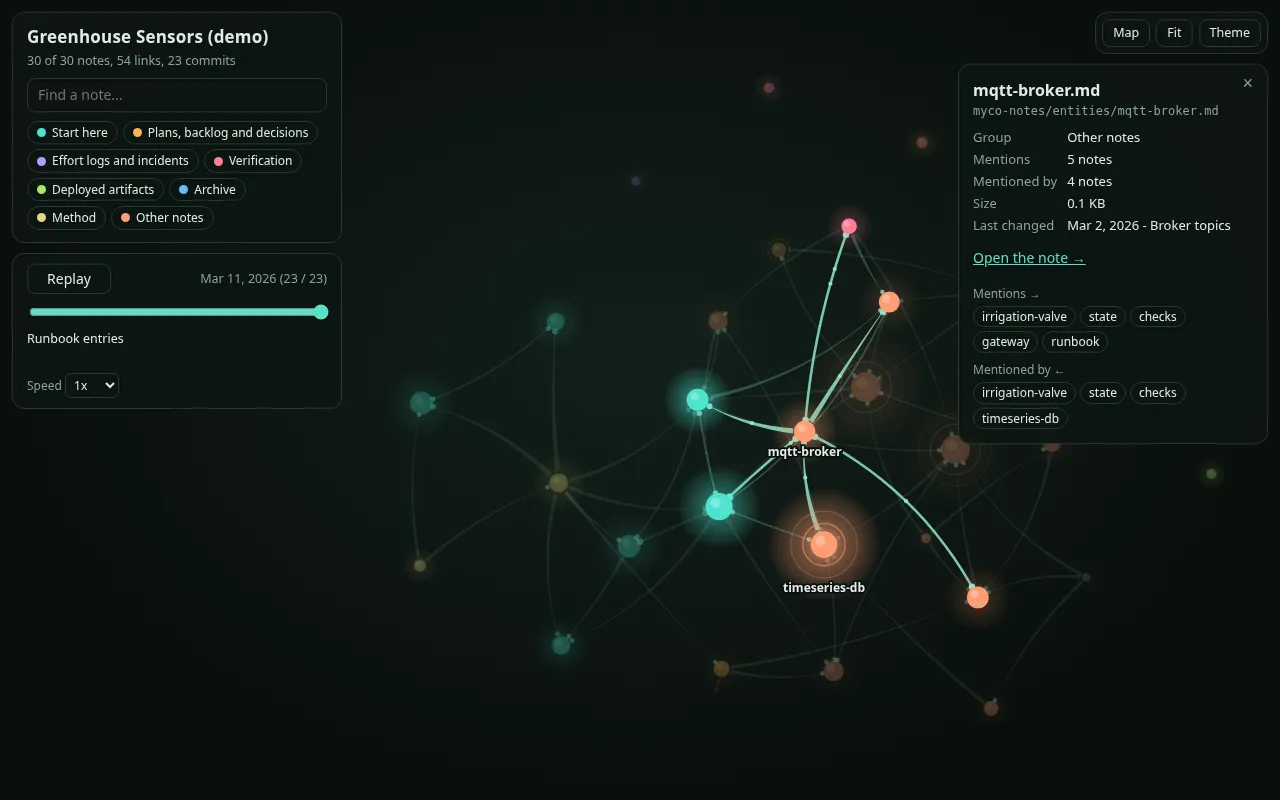
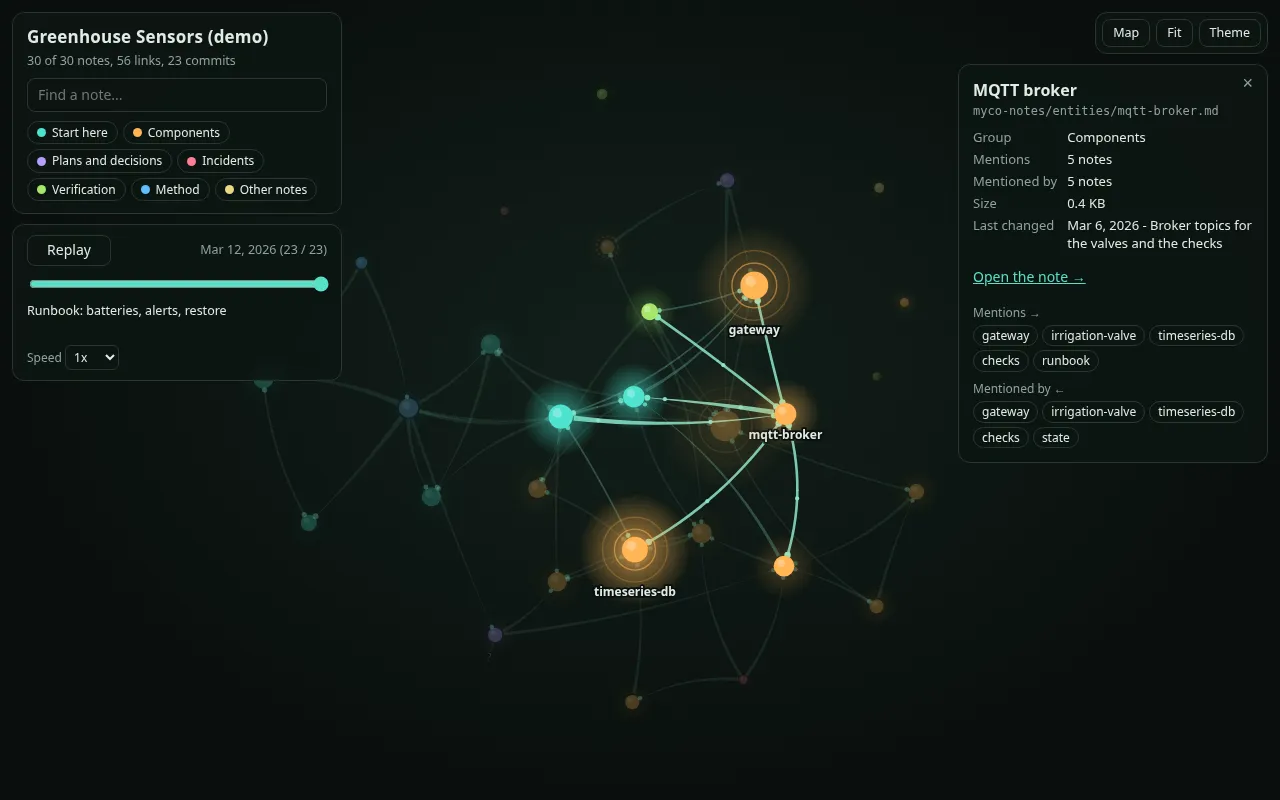
README: a replay clip, a live demo on GitHub Pages and a shorter pitch
- examples/demo/build_demo.py builds a made-up "Greenhouse Sensors" tree with
  dated commits (Jan to Mar 2026), a wilting note and a missing reference;
  .github/workflows/demo.yml publishes its map and mycelium view on Pages.
- README opening: the problem in one line, the replay clip, the demo link,
  the install command, five feature bullets and badges. The screenshots are
  retaken from the demo tree.
- tests/smoke.sh builds the demo tree and lints it.

diff --git a/examples/demo/build_demo.py b/examples/demo/build_demo.py
@@ -1,0 +1,212 @@
+#!/usr/bin/env python3
+"""build_demo: create the made-up "Greenhouse Sensors" notes tree and its map, for the README screenshots and the live demo.
+
+    python3 examples/demo/build_demo.py OUT_DIR
+
+OUT_DIR must not exist. The script bootstraps a tree with this kit, writes a few dozen invented notes in the method's formats,
+commits them with fixed dates from January to March 2026 (so the timeline replay always tells the same story) and builds the map
+(OUT_DIR/myco-notes/map/index.html and graph.html). Everything in it is fictional; nothing is read from the machine it runs on.
+Standard library and git only, like the tools.
+"""
+import json
+import os
+import subprocess
+import sys
+
+HERE = os.path.dirname(os.path.abspath(__file__))
+KIT = os.path.normpath(os.path.join(HERE, "..", "..", "skills", "myco-notes"))
+ENV = dict(os.environ, GIT_AUTHOR_NAME="Demo Owner", GIT_AUTHOR_EMAIL="demo@example.invalid",
+           GIT_COMMITTER_NAME="Demo Owner", GIT_COMMITTER_EMAIL="demo@example.invalid")
+
+# (date, commit message, {path under myco-notes/: text}); text starting with "+" is appended to the note instead of replacing it.
+STEPS = [
+    ("2026-01-06", "Sensor node: hardware, power budget and where the nodes hang", {
+        "entities/sensor-node.md": """# Sensor node
+
+Battery-powered node that measures air temperature, humidity and light every 5 minutes and sends them over LoRa.
+
+- Hardware: ESP32 board, SHT41 sensor, 2 x AA lithium, IP65 box. Twelve nodes, inventory in `state.md`.
+- Power budget: 38 uA asleep, 9 s awake per reading; measured life 14 months (bench test 2026-01-04).
+- Sends to: `gateway.md`. Firmware: see the entity note for the firmware once it exists.
+- How to replace batteries: `runbook.md`, "How do I swap a node's batteries?".
+"""}),
+    ("2026-01-09", "Gateway: the LoRa receiver in the potting shed", {
+        "entities/gateway.md": """# LoRa gateway
+
+Receives the readings from every `sensor-node.md` and publishes them to the broker.
+
+- Where: potting shed, 2 m up, outdoor antenna. Power over Ethernet from the shed switch.
+- Publishes to: `mqtt-broker.md`, topic `greenhouse/<house>/<node>/<metric>`.
+- Health: `checks.md` pings it every minute; the inventory row is in `state.md`.
+"""}),
+    ("2026-01-12", "Broker: MQTT on the small server", {
+        "entities/mqtt-broker.md": """# MQTT broker
+
+Mosquitto 2.0 on the small server; every reading passes through it.
+
+- Fed by: `gateway.md`. Read by: the time-series database (`timeseries-db.md`).
+- Access: one account per client; the passwords live in the password manager, entry "Greenhouse / MQTT", never here.
+- Restart and log locations: `runbook.md`.
+"""}),
+    ("2026-01-15", "Store the readings in a time-series database", {
+        "entities/timeseries-db.md": """# Time-series database
+
+Keeps every reading for two years (about 40 MB a month).
+
+- Subscribes to `mqtt-broker.md`; schema: one measurement per metric, tags `house` and `node`.
+- Version and size are in `state.md`; backups: see the backup job note when it exists.
+"""}),
+    ("2026-01-19", "Dashboard for the growers", {
+        "entities/dashboard.md": """# Dashboard
+
+One page per greenhouse: temperature, humidity, light, the valve state and the forecast.
+
+- Reads from `timeseries-db.md`. Panels that turn red come from `alerting.md`.
+"""}),
+    ("2026-01-22", "Frost and heat alerts", {
+        "entities/alerting.md": """# Alerting
+
+Sends a phone notification when a greenhouse leaves its range for 10 minutes.
+
+- Rules on top of `timeseries-db.md`: below 4 C (frost), above 35 C (heat), no reading from a node for 30 minutes.
+- Shown on `dashboard.md`. What to do when an alert fires: `runbook.md`.
+"""}),
+    ("2026-01-26", "Decision: LoRa instead of Wi-Fi for the nodes", {
+        "plans/decision-lora-vs-wifi.md": """# Decision: radio for the sensor nodes (2026-01-26)
+
+Context: the greenhouses are 120 m from the house; Wi-Fi reached two of three in tests.
+Options: (1) Wi-Fi with a mesh extender in each greenhouse; (2) LoRa with one `gateway.md`.
+Chosen: option 2, by the owner. Why: one receiver covers all houses and a `sensor-node.md` lasts a year on batteries.
+Not chosen: Wi-Fi (three extenders to power and patch; battery life about 6 weeks).
+Review trigger: more than 40 nodes, or a reading every minute.
+"""}),
+    ("2026-01-30", "Irrigation valves, switched over MQTT", {
+        "entities/irrigation-valve.md": """# Irrigation valve
+
+24 V solenoid valves, one per bed, driven by a relay board that listens on `mqtt-broker.md`.
+
+- A valve that stays open longer than 20 minutes raises an alert (`alerting.md`).
+- Manual override: the switch on the relay box; see `runbook.md`.
+"""}),
+    ("2026-02-02", "Weather forecast feed", {
+        "entities/weather-feed.md": """# Weather feed
+
+Hourly forecast pulled from a public weather service and written to `timeseries-db.md`, so the dashboard can show it next to the readings.
+"""}),
+    ("2026-02-05", "Backlog", {
+        "plans/backlog.md": """# Backlog
+
+- Soil moisture per bed, so the valves open on need instead of on a timer (`irrigation-valve.md`).
+- A second page on `dashboard.md` for the yearly comparison.
+- Solar charging for the far nodes: see `solar-panel.md` (not written yet).
+"""}),
+    ("2026-02-09", "Nightly backup of the database", {
+        "entities/backup-job.md": """# Backup job
+
+Dumps `timeseries-db.md` every night at 02:00 to the NAS and once a week to an offline disk.
+
+- Restore steps and the last restore drill: `runbook.md`. Status line in `state.md`.
+"""}),
+    ("2026-02-12", "Health checks", {
+        "verification/checks.md": """# Health checks
+
+A script runs every 5 minutes and reports pass / warn / fail:
+
+- `gateway.md` answers ping; `mqtt-broker.md` accepts a test message; `backup-job.md` ran in the last 26 hours;
+  every node in `sensor-node.md` reported in the last 30 minutes; `alerting.md` sent its daily test notification.
+"""}),
+    ("2026-02-16", "Greenhouse A", {
+        "entities/greenhouse-a.md": """# Greenhouse A (tomatoes)
+
+Four nodes (`sensor-node.md`), three beds, three valves (`irrigation-valve.md`). Shade cloth closes above 30 C.
+"""}),
+    ("2026-02-19", "Greenhouse B", {
+        "entities/greenhouse-b.md": """# Greenhouse B (seedlings)
+
+Five nodes (`sensor-node.md`), heated bench, two valves (`irrigation-valve.md`). Same layout as `greenhouse-a.md` otherwise.
+"""}),
+    ("2026-02-23", "Firmware 2.1 for the nodes", {
+        "entities/firmware.md": """---
+last_confirmed: 2026-02-23
+review_after: 2026-03-01
+---
+# Node firmware
+
+Version 2.1 on all nodes since 2026-02-23 (`sensor-node.md`). Why LoRa and not Wi-Fi: `decision-lora-vs-wifi.md`.
+
+- Changed in 2.1: reading interval configurable, battery voltage sent with every reading.
+- Calibration of the humidity offset is due again; see the review date above.
+"""}),
+    ("2026-02-27", "Incident: frost night in greenhouse B", {
+        "logs/2026-02-frost-night.md": """# 2026-02-26 INCIDENT: frost night in greenhouse B
+
+Timeline: 03:10 frost alert (`alerting.md`), 03:25 heater found off, 03:40 heater on, 04:30 back above 6 C.
+Effect: some seedling trays damaged. Cause (proven): the heater's timer reset after a power cut.
+Fix: the valve and heater schedule moved to the relay board (`irrigation-valve.md`), which keeps time.
+The forecast had shown -3 C (`weather-feed.md`); a forecast-based warning is now on the backlog.
+"""}),
+    ("2026-03-02", "Soil probes arrived (not wired up yet)", {
+        "entities/soil-probe.md": """# Soil probe
+
+Capacitive soil moisture probes, six bought for a test in one bed. Not connected to anything yet.
+"""}),
+    ("2026-03-04", "Node note: firmware and where they hang", {
+        "entities/sensor-node.md": "+\n## Since 2026-03-04\n- Firmware: `firmware.md`. Placement per house: `greenhouse-a.md`, `greenhouse-b.md`.\n"}),
+    ("2026-03-06", "Broker topics for the valves and the checks", {
+        "entities/mqtt-broker.md": "+\n## Topics (since 2026-03-06)\n- `greenhouse/valves/#` for `irrigation-valve.md`; `greenhouse/check` for `checks.md`.\n"}),
+    ("2026-03-08", "Database: retention, backups, dashboard", {
+        "entities/timeseries-db.md": "+\n## Retention and copies (since 2026-03-08)\n- Two years of raw data, then hourly means. Backed up by `backup-job.md`; read by `dashboard.md`.\n"}),
+    ("2026-03-10", "Master record: inventory and headline facts", {
+        "state.md": "+\n## Demo inventory (2026-03-10)\n| Name | Role | Note |\n|---|---|---|\n| Sensor nodes (12) | readings every 5 minutes | `sensor-node.md` |\n| LoRa gateway | radio to network | `gateway.md` |\n| MQTT broker | message bus | `mqtt-broker.md` |\n| Time-series database | storage, two years | `timeseries-db.md` |\n| Dashboard | for the growers | `dashboard.md` |\n"}),
+    ("2026-03-12", "Runbook: batteries, alerts, restore", {
+        "runbook.md": "+\n## How do I swap a node's batteries? (since 2026-03-12)\nOpen the box, swap both cells, wait for the next reading on the dashboard. See `sensor-node.md`.\n\n## What do I do when a frost alert fires? (since 2026-03-12)\nCheck the heater first, then the valves. See `alerting.md` and the frost night incident.\n\n## How do I restore last night's backup? (since 2026-03-12)\nSee `backup-job.md`. Last restore drill: 2026-03-11, 4 minutes. Gateway restarts: `gateway.md`.\n"}),
+]
+
+
+def run(args, cwd, date=None):
+    env = dict(ENV)
+    if date:
+        env["GIT_AUTHOR_DATE"] = env["GIT_COMMITTER_DATE"] = date + "T10:00:00+00:00"
+    return subprocess.run(args, cwd=cwd, env=env, check=True, stdout=subprocess.PIPE, stderr=subprocess.STDOUT, universal_newlines=True).stdout
+
+
+def main():
+    if len(sys.argv) != 2:
+        sys.exit(__doc__)
+    out = os.path.abspath(sys.argv[1])
+    if os.path.exists(out):
+        sys.exit("build_demo: %s exists; give a new folder" % out)
+    env_date = "2026-01-05"
+    os.environ.update({"GIT_AUTHOR_DATE": env_date + "T09:00:00+00:00", "GIT_COMMITTER_DATE": env_date + "T09:00:00+00:00"})
+    run([sys.executable, os.path.join(KIT, "tools", "bootstrap.py"), out, "--name", "Greenhouse Sensors", "--owner", "Demo Owner",
+         "--tz", "UTC", "--new-folders", "add"], HERE, env_date)
+    for k in ("GIT_AUTHOR_DATE", "GIT_COMMITTER_DATE"):
+        os.environ.pop(k, None)
+    notes = os.path.join(out, "myco-notes")
+    with open(os.path.join(out, ".myco-notes-map.json"), "w", encoding="utf-8") as fh:
+        json.dump({"title": "Greenhouse Sensors (demo)", "groups": [
+            {"id": "start", "name": "Start here", "blurb": "Entry point, working agreement, tracker, master record, runbook.",
+             "prefixes": ["AGENTS.md", "CLAUDE.md"] + ["myco-notes/" + f for f in ("working-agreement.md", "sync-tracker.md", "state.md", "runbook.md")]},
+            {"id": "components", "name": "Components", "blurb": "One note per part of the system.", "prefixes": ["myco-notes/entities/"]},
+            {"id": "plans", "name": "Plans and decisions", "blurb": "Backlog and decision records.", "prefixes": ["myco-notes/plans/"]},
+            {"id": "logs", "name": "Incidents", "blurb": "What went wrong and what changed.", "prefixes": ["myco-notes/logs/"]},
+            {"id": "verify", "name": "Verification", "blurb": "Health checks.", "prefixes": ["myco-notes/verification/"]},
+            {"id": "docs", "name": "Method", "blurb": "How the notes are kept.", "prefixes": ["myco-notes/docs/"]},
+            {"id": "other", "name": "Other notes", "blurb": "Everything else.", "prefixes": []}]}, fh, indent=1)
+    for date, msg, files in STEPS:
+        for rel, text in files.items():
+            p = os.path.join(notes, *rel.split("/"))
+            os.makedirs(os.path.dirname(p), exist_ok=True)
+            if text.startswith("+"):
+                with open(p, "a", encoding="utf-8", newline="\n") as fh:
+                    fh.write(text[1:])
+            else:
+                with open(p, "w", encoding="utf-8", newline="\n") as fh:
+                    fh.write(text)
+        run(["git", "add", "-A"], out)
+        run(["git", "commit", "-q", "-m", msg], out, date)
+    print(run([sys.executable, os.path.join(notes, "tools", "build-notes-map.py")], out).strip())
+
+
+if __name__ == "__main__":
+    main()

diff --git a/README.md b/README.md
@@ -2,6 +2,29 @@
 
 *Linked, versioned, secret-free project notes for you and your AI agents.*
 
+[![test](https://github.com/LuzianMe/myco-notes/actions/workflows/test.yml/badge.svg)](https://github.com/LuzianMe/myco-notes/actions/workflows/test.yml) [![live demo](https://img.shields.io/badge/live%20demo-mycelium%20view-3fbfa8)](https://luzianme.github.io/myco-notes/graph.html) [![license](https://img.shields.io/badge/license-Apache--2.0-blue)](LICENSE)
+
+**Your AI agent forgets everything between sessions. Your notes should not.** Myco Notes keeps a project's knowledge in plain Markdown and git, and keeps it **true**: every change is written down with its evidence, every note says which notes it depends on, nothing secret gets committed, and nothing is deleted, only superseded.
+
+![The notes of a demo project growing commit by commit in the mycelium view: notes appear as glowing nodes and threads grow between the notes that mention each other](.github/assets/mycelium-replay.gif)
+
+*A made-up project's notes growing commit by commit. **[Open the live demo](https://luzianme.github.io/myco-notes/graph.html)** to click around it, or browse [its notes map](https://luzianme.github.io/myco-notes/).*
+
+**Install in Claude Code** (other agents: [Install](#install)):
+```
+/plugin marketplace add LuzianMe/myco-notes
+/plugin install myco-notes@myco-notes
+```
+Then ask: *"start a Myco Notes tree for my project"*.
+
+- **Capture, not chores:** after each change the agent updates the right notes (master record, runbook, entity notes) and commits them with a described message.
+- **Stays accurate:** a lint finds broken references, passed follow-up and review dates, stale headers and oversized notes; `resume` briefs the next session in a fixed budget; `asof` shows what the notes said on any date.
+- **Safe by default:** a commit hook and CI refuse anything that looks like a secret; notes say where a secret lives, never its value.
+- **See how it connects:** a static map with backlinks, and the mycelium view above, which replays the git history and shows wilting (overdue) notes and missing references.
+- **Plain files:** Markdown, git and Python 3.8+ standard library. Linux, macOS and Windows. Works with any agent, or none.
+
+## Where it comes from
+
 A method, a starter tree and a small set of tools for keeping a project's knowledge **accurate, secure, versioned and connected**, for engineers who run large or long projects (infrastructure, platforms, data and ML systems, research, hardware) alone, in teams, or together with AI coding agents.
 
 It started as the operational memory of a long-running, AI-operated engineering project, where the notes had to work for an operator that forgets everything between sessions. If the notes are good enough for that operator, they are good enough for a new teammate, an auditor, or you next year.
@@ -111,7 +134,7 @@ python3 <kit>/tools/relocate.py --root ~/projects/old-notes --apply    # then re
 |---|---|---|
 | ![Close-up of tapered threads ending in small buds on the rim of the notes](.github/assets/graph-hyphae.webp) | ![The same tree in the light theme](.github/assets/graph-light.webp) | ![The network after 12 of 23 commits](.github/assets/graph-replay.webp) |
 
-*Screenshots of a made-up demo tree ("Greenhouse Sensors").*
+*Screenshots of a made-up demo tree ("Greenhouse Sensors"), built by `examples/demo/build_demo.py`; the same tree is the [live demo](https://luzianme.github.io/myco-notes/graph.html), rebuilt from `main` on every change to the kit.*
 
 - **Notes are nodes, mentions are hyphae**: the threads are the same file-name mentions the map uses for backlinks. Notes with many backlinks are bigger, and the few most-mentioned notes of the project are its hubs (two soft rings and a label, chosen by mentions; the entry and method notes every tree has are never hubs); each group of notes is a color and clusters into a colony; history folders (`archive/`, `logs/`) sit dimmed at the edge.
 - **Threads have a direction**: a hypha grows out of the note that writes the mention, broad at its base, and thins toward the note it names, where it ends in a small bud on the rim. Two notes that mention each other share an even thread with a bud at both ends. While a thread is lit, sap flows the same way, and during a replay a new thread grows along its length instead of fading in.

diff --git a/CHANGELOG.md b/CHANGELOG.md
@@ -1,5 +1,10 @@
 # Changelog
 
+## Unreleased (repository only; the skill is unchanged)
+- **Live demo**: `examples/demo/build_demo.py` builds a made-up "Greenhouse Sensors" tree (about 20 dated commits, a wilting note and a missing reference on purpose); `.github/workflows/demo.yml` publishes its map and mycelium view on GitHub Pages from `main`.
+- **README**: new opening (the problem in one line, a replay clip of the mycelium view, the live demo link, the install command, five feature bullets, badges); the screenshots now come from the demo tree.
+- Tests: `tests/smoke.sh` builds the demo tree and lints it.
+
 ## 0.10.0
 - **Mycelium view, direction**: the threads now show who mentions whom, in the view's own vocabulary instead of arrowheads. A hypha leaves the note that writes the mention broad and thins toward the note it names, ending in a small swollen tip (a bud) on its rim; two notes that mention each other share an even thread with a bud at both ends. On a lit thread the sap flows from the mentioning note to the mentioned one, and during a replay a new thread grows from its source instead of fading in. The detail panel lists "Mentions" and "Mentioned by" separately (it had one mixed list).
 - **Method**: section 9 says the relation map's edges have a direction and a view should show it. Version 2.2 of the document.

diff --git a/AGENTS.md b/AGENTS.md
@@ -6,7 +6,7 @@ This repository is a kit, not a notes tree. Do not confuse it with the notes tre
 - `skills/myco-notes/` : the whole product, **self-contained** (a skill-only installer delivers just this folder). `SKILL.md`, `tools/`, `docs/METHODOLOGY.md`, `template/`. Nothing in it may refer to files outside the folder or to an environment variable.
 - `.claude-plugin/` : Claude Code plugin and marketplace manifests (the plugin root is the repository root).
 - `tests/smoke.sh` : the test. Run it before every commit; all checks must pass. `.github/workflows/test.yml` runs it on Linux and macOS for every push and pull request.
-- `examples/` : sample entries for readers.
+- `examples/` : sample entries for readers; `examples/demo/build_demo.py` builds the made-up demo tree behind the README screenshots and the live demo (`.github/workflows/demo.yml` publishes its map on GitHub Pages). Images for the README live in `.github/assets/`.
 
 ## Rules
 1. **One copy of everything.** Do not duplicate tools or docs for a second agent; add installation instructions instead.
